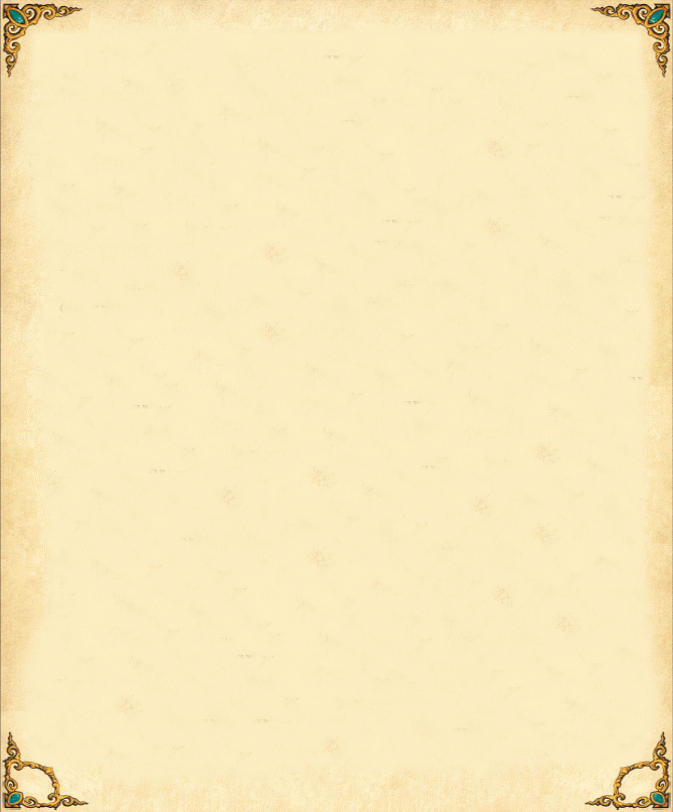
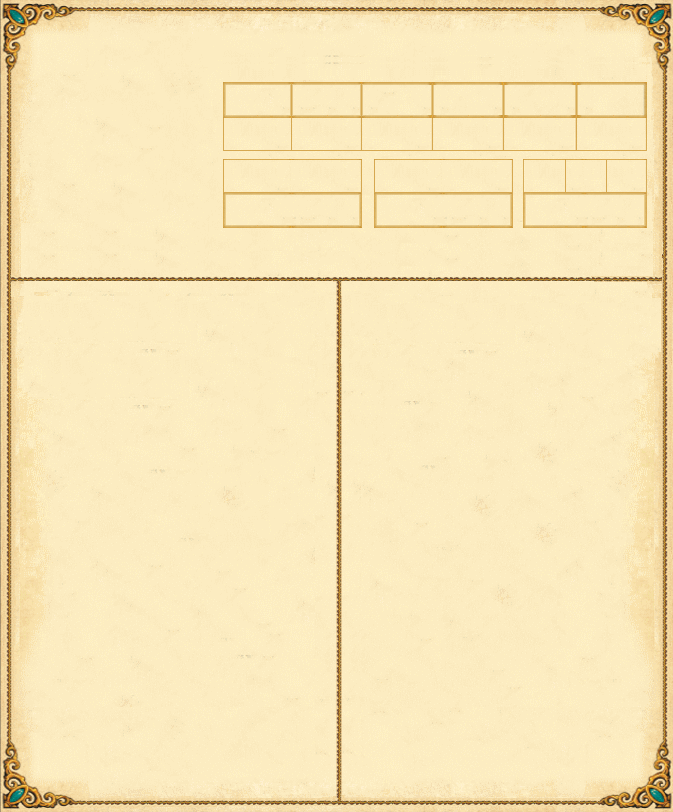
Sheet!

diff --git a/system/actors/templates/character-actor-sheet.html b/system/actors/templates/character-actor-sheet.html
@@ -4,10 +4,10 @@
 			<div class="">
 				<div class="">
 					<div class="">
-						<div class="margin-bottom-1em">
+						<div>
 							<div class="flex">
 								<div class="fable-font margin-bottom-1em margin-right-1em bold">
-									NAME
+									Name
 								</div>
 								<input type="text" name="system.base.name" value="{{system.base.name}}"
 									data-type="String">
@@ -17,7 +17,7 @@
 									<img class="profile-img godbound-border" src="{{actor.img}}" data-edit="img"
 										title="{{actor.name}}" />
 								</div>
-								<div class="flex column stat-container">
+								<div class="flex column stat-container center">
 									<div class="flex margin-bottom-halfem">
 										<div class="flex column center-column stat-col" data-tooltip="<div class=&quot;&quot;>MOD: {{system.attributes.str.mod}}</div>
 										<div>DC: {{system.attributes.str.checkDC}}</div>" data-tooltip-direction="UP">
@@ -104,7 +104,7 @@
 														value="{{system.abilityPoints.total}}" data-type="Number">
 												</div>
 												<div class="fable-font bold stat-info ability-points">
-													ABILITY POINTS
+													Ability Points
 												</div>
 											</div>
 										</div>
@@ -120,7 +120,7 @@
 												</div>
 												<div data-tooltip="<div class=&quot;&quot;>BONUS: {{system.coreStats.hp.miscBonus}}</div>"
 													data-tooltip-direction="DOWN" class="fable-font bold stat-info">
-													HITPOINTS
+													Hit Points
 												</div>
 											</div>
 										</div>
@@ -128,19 +128,19 @@
 											<div class="flex column center-column stat-col">
 												<div class="save-info stat-info-sub-item no-bottom-border flex">
 													<div type="roll" data-dialog="true" data-type="hardiness"
-														class="stat-info-saves" name="roll_hardiness_save" data-tooltip="<div>MOD: {{system.coreStats.saves.hardiness.attributeModifier}}</div>
+														class="stat-info-saves no-bottom-border no-right-border" name="roll_hardiness_save" data-tooltip="<div>MOD: {{system.coreStats.saves.hardiness.attributeModifier}}</div>
 													PENALTY: {{system.coreStats.saves.hardiness.penaltyModifier}}</div>
 													<div>DC: {{system.coreStats.saves.hardiness.dc}}</div>" data-tooltip-direction="DOWN"">
 														HAR
 													</div>
-													<div type=" roll" data-dialog="true" data-type="evasion" class="stat-info-saves"
+													<div type=" roll" data-dialog="true" data-type="evasion" class="stat-info-saves no-bottom-border no-right-border"
 														name="roll_hardiness_save" data-tooltip="<div>MOD: {{system.coreStats.saves.evasion.attributeModifier}}</div>
 														PENALTY: {{system.coreStats.saves.evasion.penaltyModifier}}</div>
 														<div>DC: {{system.coreStats.saves.evasion.dc}}</div>" data-tooltip-direction="DOWN">
 														EVA
 													</div>
 													<div type="roll" data-dialog="true" data-type="spirit"
-														class="stat-info-saves no-right-border"
+														class="stat-info-saves no-bottom-border"
 														name="roll_hardiness_save" data-tooltip="<div>MOD: {{system.coreStats.saves.spirit.attributeModifier}}</div>
 													PENALTY: {{system.coreStats.saves.spirit.penaltyModifier}}</div>
 													<div>DC: {{system.coreStats.saves.spirit.dc}}</div>" data-tooltip-direction="DOWN">
@@ -148,7 +148,7 @@
 													</div>
 												</div>
 												<div class="fable-font bold stat-info">
-													SAVES
+													Saves
 												</div>
 											</div>
 										</div>
@@ -156,7 +156,7 @@
 								</div>
 							</div>
 						</div>
-						<div class="charsheet-tabs flex center margin-bottom-1em" data-group="charsheet">
+						<div class="charsheet-tabs flex center" data-group="charsheet">
 							<div class="margin-right-1em item godbound-button" data-tab="char" data-group="charsheet">
 								Character</div>
 							<div class="margin-right-1em item godbound-button" data-tab="combat" data-group="charsheet">
@@ -166,15 +166,15 @@
 						<section class="charsheet-content">
 							<div data-group="charsheet" data-tab="char" class="tab">
 								<div class="flex h100">
-									<div class="flex column w50 margin-right-halfem">
-										<div class="fable-font margin-right-1em bold sheet-text-header stat-info">
+									<div class="flex column w50 margin-right-halfem left-col">
+										<div class="fable-font margin-right-1em bold sheet-text-header stat-info margin-bottom-halfem">
 											GENERAL
 										</div>
-										<div class="charsheet-col-sub-area sheet-column space-around">
+										<div class="charsheet-col-sub-area sheet-column">
 											<div class="flex space-between">
 												<div
 													class="fable-font margin-bottom-1em margin-right-1em bold sheet-text-header">
-													LEVEL
+													Level
 												</div>
 												<input class="text-center" type="number"
 													name="system.coreStats.levelOrHD"
@@ -183,7 +183,7 @@
 											<div class="flex space-between">
 												<div
 													class="fable-font margin-bottom-1em margin-right-1em bold sheet-text-header">
-													EXP
+													Exp
 												</div>
 												<input class="text-center" type="number" name="system.xp"
 													value="{{system.xp}}" data-type="Number">
@@ -191,7 +191,7 @@
 											<div class="flex space-between">
 												<div
 													class="fable-font margin-bottom-1em margin-right-1em bold sheet-text-header">
-													DESC
+													Desc
 												</div>
 												<textarea class="w100 sheet-resize-vertical text-area-large"
 													name="system.base.description"
@@ -200,7 +200,7 @@
 											<div class="flex space-between">
 												<div
 													class="fable-font margin-bottom-1em margin-right-1em bold sheet-text-header">
-													LANG
+													Lang
 												</div>
 												<textarea class="w100 sheet-resize-vertical text-area-large"
 													name="system.base.languages"
@@ -208,7 +208,7 @@
 											</div>
 											<div class="flex space-between">
 												<div class="fable-font margin-right-1em bold sheet-text-header">
-													GOALS
+													Goal
 												</div>
 												<textarea class="w100 sheet-resize-vertical text-area-large"
 													name="system.base.goals" data-type="String"
@@ -223,19 +223,19 @@
 											</div>
 										</div>
 									</div>
-									<div class="flex column w50">
-										<div class="fable-font margin-right-1em bold sheet-text-header stat-info">
+									<div class="flex column w50 right-col">
+										<div class="fable-font margin-right-1em bold sheet-text-header stat-info margin-bottom-halfem">
 											FACTS
 										</div>
-										<div class="charsheet-col-sub-area sheet-column h100">
+										<div class="charsheet-col-sub-area sheet-column h100 overflow-hidden">
 											<div class="sheet-facts">
-												{{#each system.facts as |fact i|}}
+												{{#each system.facts}}
 												<div class="flex center-column">
 													<textarea class="w100 sheet-resize-vertical margin-right-halfem"
-														value="{{fact}}" name="{{fact}}"
-														placeholder="New Fact"></textarea>
+														name="system.facts.{{@key}}"
+														placeholder="New Fact">{{this}}</textarea>
 													<div class="trash-button margin-right-halfem fa-solid fa-trash-can"
-														data-index="{{i}}" type="deletefact" data-fact="{{fact}}">
+														data-index="{{@key}}" type="remove" data-typetoremove="fact">
 													</div>
 												</div>
 												{{/each}}

diff --git a/css/charsheet.css b/css/charsheet.css
@@ -3,12 +3,11 @@
 }
 
 .stat-info {
-	border: 2px solid #725816;
 	width: 100%;
 	padding: 0.5em 0.75em;
 	text-align: center;
 	font-size: 14px;
-	height: 35px;
+	height: 30px;
 }
 
 .text-area-large {
@@ -31,22 +30,24 @@
 
 .sheet-facts {
 	height: 90%;
-	overflow-y:scroll;
+	overflow-y: scroll;
 	overflow-x: hidden;
 }
 
 .sheet-column {
-    height: 410px;
-    max-height: 410px;
-    overflow-y: scroll;
+	height: 410px;
+	max-height: 410px;
+	overflow-y: scroll;
 	overflow-x: hidden;
 }
 
 .charsheet-tabs {
 	background-image: url('../images/fancyborder.png');
-	background-repeat: no-repeat!important;
+	background-repeat: no-repeat !important;
 	background-position: center;
 	background-size: 100% 1px !important;
+	margin-bottom: 17px;
+    margin-top: 21px;
 }
 
 .stat-container {
@@ -60,25 +61,25 @@
 }
 
 .stat-info-saves {
-	border-right: 1px solid black;
-	width: 100%;
-	padding: 0.5em;
+	width: 40px;
+	align-items: center;
+	display: flex;
+	justify-content: center;
 	font-family: "Godbound", Garamond, "Times New Roman", Georgia, serif;
 	font-weight: 600;
 }
 
 .stat-info-sub-item {
 	border-radius: 1px;
-	border: 1px solid black;
 	height: 34px;
 }
 
 .portrait {
 	background-repeat: no-repeat !important;
 	background-size: contain !important;
-	background: url('../images/portraitborder.png');
-	padding: 0.8em;
-	width: 152px;
+	background: url('../images/newportrait.png');
+	padding: 1em;
+	width: 170px;
 }
 
 .profile-img {
@@ -87,6 +88,8 @@
 	flex: 0 0 100px;
 	height: 125px;
 	margin-right: 10px;
+	border-radius: 50%;
+	border: 2px solid rgb(116 95 43);
 }
 
 .charsheet-header {
@@ -898,8 +901,8 @@ body.sheet-darkmode .attributesabilities {
 }
 
 .charsheet-overall-wrapper {
-    padding: 1.8em;
-    width: 645px;
+	padding: 1.8em;
+	width: 645px;
 }
 
 .charsheet {
@@ -948,7 +951,7 @@ body.sheet-darkmode .attributesabilities {
 	font-size: 13px;
 	color: #204060;
 	cursor: pointer;
-              
+
 	border: 1px solid black;
 	border-color: #204060 !important;
 	border-radius: 4px;
@@ -1396,11 +1399,17 @@ body.sheet-darkmode .attributesabilities {
 }
 
 .charsheet-col-sub-area {
-	border: 1px solid black;
 	padding: 0.5em;
-	border-top: none;
 	display: flex;
-    flex-direction: column;
+	flex-direction: column;
+}
+
+.left-col {
+	padding-right: 20px;
+}
+
+.right-col {
+	padding-left: 20px;
 }
 
 .charsheet textarea {
@@ -1416,7 +1425,7 @@ body.sheet-darkmode .attributesabilities {
 
 .charsheet input[type=number] {
 	margin-bottom: 0px !important;
-	border: none;
+	border: 1px solid rgba(0, 0, 0, 0.2);
 	box-shadow: none;
 	padding: 2px;
 	line-height: 100%;

diff --git a/css/core.css b/css/core.css
@@ -90,6 +90,7 @@ div [type=roll] {
 .fable-font {
     font-family: "Godbound", Garamond, "Times New Roman", Georgia, serif;
     color: rgb(0, 89, 64);
+    font-size: 15px;
 }
 
 .flex {
@@ -141,19 +142,24 @@ div [type=roll] {
     height: 100%;
 }
 
+.overflow-hidden {
+    overflow: hidden;
+}
+
 .godbound-button {
     font-family: "Godbound", Garamond, "Times New Roman", Georgia, serif;
-    padding: 0.5em;
-    border: 2px solid #725816;
+	border: 2px solid #b7913075;
     border-radius: 4px;
     text-align: center;
     min-width: 72px;
-    background: rgb(255 225 187);
     cursor: pointer;
     font-size: 16px;
+    font-weight: 600;
+    background-image: url('../images/charsheet-button-background.png');
+	background-position: center;
+    padding: 3px;
 }
 
 .godbound-button.active {
-    background-color: rgb(0, 89, 64);
-    color: white;
+    color: rgb(221 72 72);
 }

diff --git a/css/godbound.css b/css/godbound.css
@@ -504,7 +504,6 @@ h6 {
   max-width: 100%;
   height: auto;
   vertical-align: middle;
-  border: 0;
 }
 
 /* global textarea tags */
